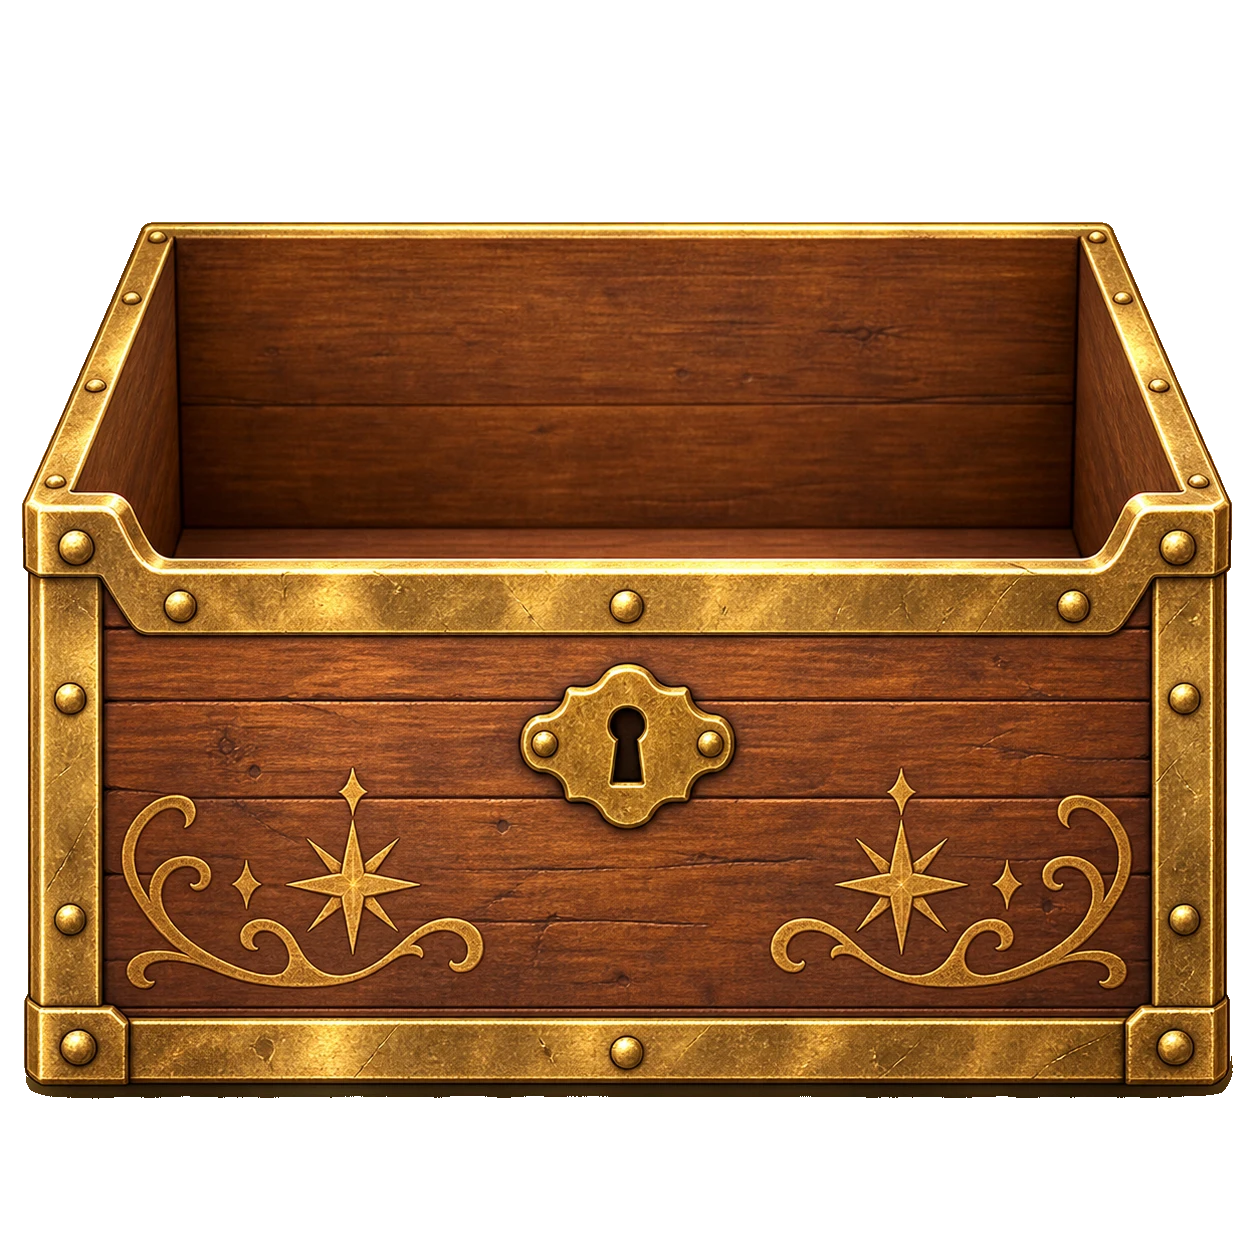
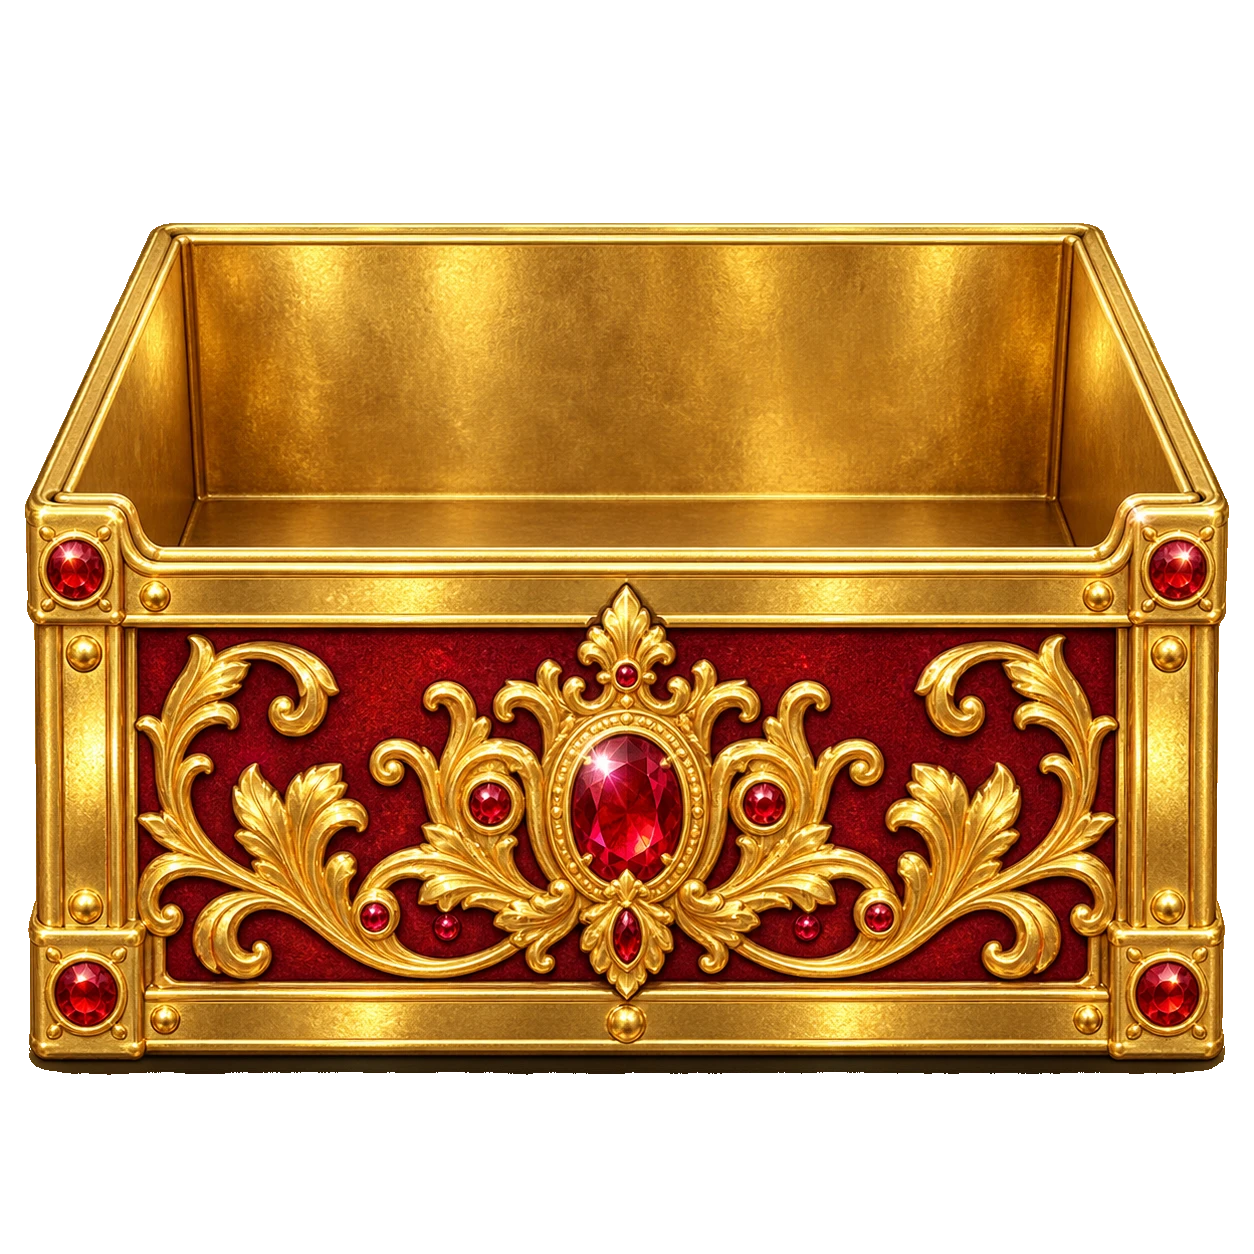
ダンボールのLv1/Lv5画像を入れ替え、他アイテムの見た目が連動するバグを修正
- 各ダンボールのLv1(基本デザイン)とLv5(最上位スキン)の画像をそのまま
  入れ替え（非MRはskin-0⇔skin-5、MRのNo.11はskin-1⇔skin-5）
- ダンボール選択画面で、装備中アイテムのスキン段階(equipped.skinIndex)を
  一覧の全カードのdisplaySkinIndex計算に使い回していたため、装備中の
  スキンを変えると無関係な他アイテムのカード画像まで変わって見える
  バグを修正。装備中のカードだけ実際の装備スキンを反映し、それ以外は
  各アイテム自身の解放済み最大スキン段階を表示するようにした。

Claude-Session: https://claude.ai/code/session_01JcKQpZJQRbqkNU3tiNhH8Z

diff --git a/src/components/dambourle-picker.tsx b/src/components/dambourle-picker.tsx
@@ -123,7 +123,14 @@ export function DambourlePicker({ equippedItemId, equippedSkinIndex, ownedCounts
           const unlocked = count > 0;
           const level = unlocked ? getDambourleLevel(prize.rarity, count) : 0;
           const minSkinIndex = getDambourleMinSkinIndex(prize.id);
-          const displaySkinIndex = Math.max(minSkinIndex, Math.min(equipped.skinIndex, getDambourleUnlockedSkinTier(prize.id, level)));
+          const maxTier = getDambourleUnlockedSkinTier(prize.id, level);
+          // equipped.skinIndexは「今装備中のアイテム」のスキン段階であり、他のアイテムには無関係。
+          // ここで使い回すと、装備中のスキンを変えただけで無関係な他アイテムの見た目まで
+          // 変わって見えるバグになるため、装備中のカードだけそれを反映し、それ以外は
+          // 自分自身の解放済み最大スキン段階を表示する。
+          const displaySkinIndex = equipped.itemId === prize.id
+            ? Math.max(minSkinIndex, Math.min(equipped.skinIndex, maxTier))
+            : maxTier;
           return (
             <DambourleCard
               key={prize.id}
